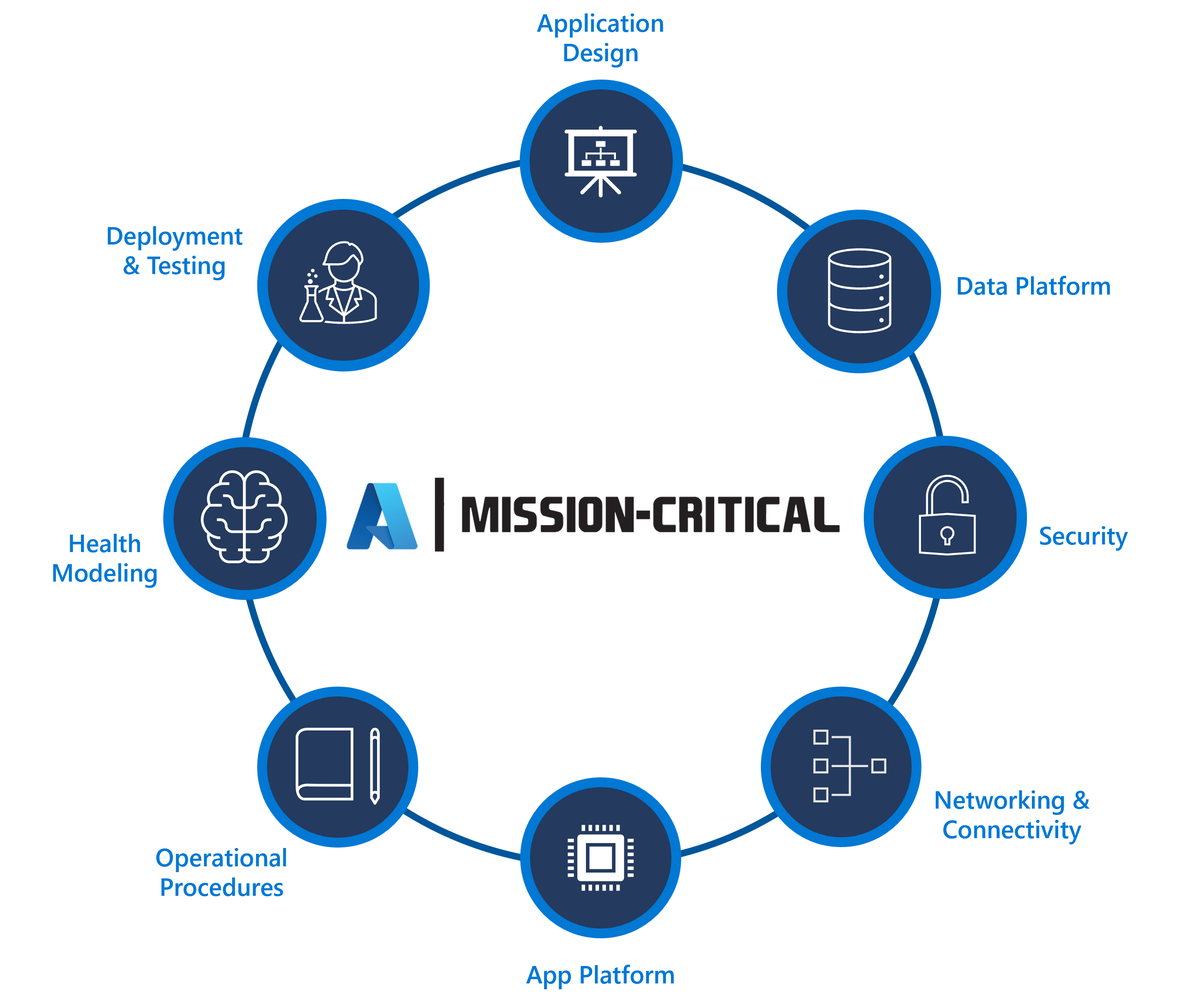
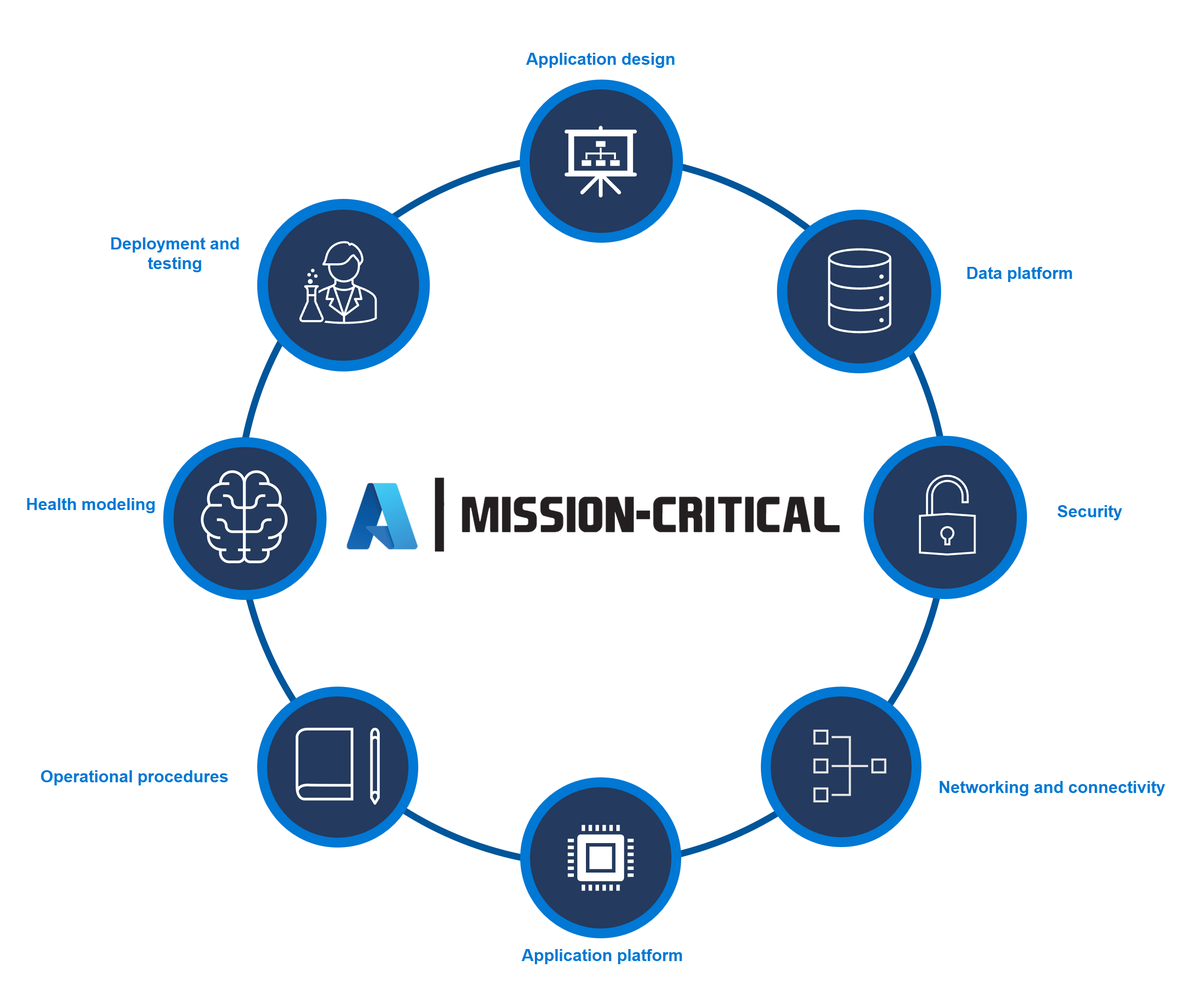
merges

diff --git a/well-architected/mission-critical/mission-critical-architecture-pattern.md b/well-architected/mission-critical/mission-critical-architecture-pattern.md
@@ -24,7 +24,7 @@ ms.custom:
 This section provides design considerations and recommendations across architecturally significant topics that are relevant for a mission-critical workload. The design areas are interrelated and decisions made within one area can impact or influence decisions across the entire design.
 
 > [!IMPORTANT]
-> This article is part of the [Azure Well-Architected mission-critical workload](index.yml) series. If you are not familiar with this series, we recommend you start with [What is a mission-critical workload?](mission-critical-overview.md#what-is-a-mission-critical-workload)
+> This article is part of the [Azure Well-Architected mission-critical workload](index.yml) series. If you aren't familiar with this series, we recommend you start with [What is a mission-critical workload?](mission-critical-overview.md#what-is-a-mission-critical-workload)
 >
 > ![GitHub logo](./../_images/github.svg) [Mission-Critical open source project](http://github.com/azure/alwayson)
 >
@@ -48,24 +48,11 @@ We recommend that you use the provided design guidance to navigate the key desig
 
 A mission-critical workload architecture is defined by the various design decisions required to ensure both functional and non-functional business-requirements are fully satisfied. The target architecture is therefore greatly influenced by the relevant business requirements, and as a result may vary between different application contexts.
 
-<<<<<<< HEAD
-
-The image below represents a reference architecture recommended for mission-critical workloads on Azure. It leverages a reference set of business requirements to achieve an optimized architecture for different target reliability tiers.
-
-![Mission-critical online reference architecture](./images/alwayson-architecture-foundational-online.png "Mission-critical online reference architecture")
-
-<<<<<<< Updated upstream
->The [Mission-Critical Foundational Online](https://github.com/azure/alwayson-foundational-online) and [Mission-Critical Foundational Connected](https://github.com/azure/alwayson-foundational-connected) provide solution orientated showcases for this design methodology, demonstrating how this architecture pattern can be implemented alongside the operational wrappers required to maximize reliability and operational effectiveness.
-=======
-The [Mission-Critical Online](https://github.com/azure/alwayson-foundational-online) and [Mission-Critical Connected](https://github.com/azure/alwayson-foundational-connected) provide solution orientated showcases for this design methodology, demonstrating how this architecture pattern can be implemented alongside the operational wrappers required to maximize reliability and operational effectiveness.
->>>>>>> Stashed changes
-=======
 The image below represents a reference architecture recommended for mission-critical workloads on Azure. It leverages a reference set of business requirements to achieve an optimized architecture for different target reliability tiers.
 
 ![Mission-critical online reference architecture](./images/mission-critical-architecture-foundational-online.png "Mission-critical online reference architecture")
 
->The [Mission-Critical Online](https://github.com/azure/alwayson-foundational-online) and [Mission-Critical Connected](https://github.com/azure/alwayson-foundational-connected) provide solution orientated showcases for this design methodology, demonstrating how this architecture pattern can be implemented alongside the operational wrappers required to maximize reliability and operational effectiveness.
->>>>>>> 873613c72bd1ff73668a8fd7f24887badd014e48
+The [Mission-Critical Foundational Online](https://github.com/azure/alwayson-foundational-online) and [Mission-Critical Foundational Connected](https://github.com/azure/alwayson-foundational-connected) provide solution orientated showcases for this design methodology, demonstrating how this architecture pattern can be implemented alongside the operational wrappers required to maximize reliability and operational effectiveness.
 
 Use these reference implementations to construct a sandbox application environment for validating key design decisions.
 
@@ -77,33 +64,24 @@ This mission-critical workload series provides prescriptive architectural guidan
 
 The mission-critical [reference implementations](mission-critical-overview.md#illustrative-examples) can integrate seamlessly within an Azure landing zone, and is deployable within both the *Online* or *Corp. Connected* Landing Zone formats as demonstrated within the image below.
 
-<<<<<<< HEAD
-![Mission-critical workload and Landing Zone integration](./images/alwayson-landing-zones.gif "Mission-critical workload and Landing Zone integration")
-
-It is crucial to understand and identify in which connectivity scenario a mission-critical application requires since Azure landing zones support different landing zones archetypes separated into different Management Group scopes.
-=======
-![Mission-critical workload and Landing Zone integration](./images/mission-critical-landing-zones.gif "Mission-critical workload and Landing Zone integration")
+![Mission-critical workload and landing zone integration](./images/mission-critical-landing-zones.gif "Mission-critical workload and landing zone integration")
 
 It is crucial to understand and identify in which connectivity scenario a mission-critical application requires since Azure landing zones support different workload agnostic landing zones archetypes separated into different Management Group scopes.
->>>>>>> 873613c72bd1ff73668a8fd7f24887badd014e48
 
-- In the context of an *Online* Landing Zone archetype, a mission-critical workload operates as a completely independent solution, without any direct corporate network connectivity to the rest of the Azure landing zone architecture. The application will, however, be further safeguarded through the [*policy-driven management*](/azure/cloud-adoption-framework/ready/enterprise-scale/dine-guidance) approach which is foundational to Azure landing zones, and will automatically integrate with centralized platform logging through policy.
+> The mission-critical reference implementations are fully aligned with the Azure landing zones architectural approach and are immediately deployable within an *Online* or *Connected* Landing Zone subscription.
 
-  - A *Online* deployment can only really consider a public application deployment since there is no private corporate connectivity provided.
+- In the context of an *Online* landing zone archetype, a mission-critical workload operates as a completely independent solution, without any direct corporate network connectivity to the rest of the Azure landing zone architecture. The application will, however, be further safeguarded through the [*policy-driven management*](/azure/cloud-adoption-framework/ready/enterprise-scale/dine-guidance) approach which is foundational to Azure landing zones, and will automatically integrate with centralized platform logging through policy.
+
+  An *Online* deployment can only really consider a public application deployment since there is no private corporate connectivity provided.
 
 - When deployed in a *Corp. Connected* Landing Zone context, the mission-critical workload takes a dependency on the Azure landing zone to provide connectivity resources which allow for integration with other applications and shared services. This necessitates some transformation on-top of the *Online* integration approach, because some foundational resources are expected to exist up-front as part of the shared-service platform. More specifically, the regional deployment stamp should not longer encompass an ephemeral Virtual Network or Azure Private DNS Zone since these will exist within the Azure landing zones *connectivity* subscription. 
 
   A *Corp. Connected* deployment can consider both a public or private application deployment.
-
-> The mission-critical reference implementations are fully aligned with the Azure landing zones architectural approach and are immediately deployable within an *Online* or *Connected* Landing Zone subscription.
 
 ## Next step
 
 Review the best practices for architecting mission-critical application scenarios.
 
 > [!div class="nextstepaction"]
-<<<<<<< HEAD
-> [Application Design](./mission-critical-application-design.md)
-=======
 > [Application design](./mission-critical-application-design.md)
->>>>>>> 873613c72bd1ff73668a8fd7f24887badd014e48
+

diff --git a/well-architected/mission-critical/mission-critical-application-design.md b/well-architected/mission-critical/mission-critical-application-design.md
@@ -69,10 +69,6 @@ The expected growth patterns for both traffic and data volume inform the design,
 
 The required performance of the solution under load is a critical decision factor when modeling required capacity.
 
-<<<<<<< HEAD
-
-=======
->>>>>>> 873613c72bd1ff73668a8fd7f24887badd014e48
 ### Design recommendations
 
 - Define a scale-unit when the scale-limits of a single deployment are likely to be exceeded.
@@ -107,11 +103,11 @@ The required performance of the solution under load is a critical decision facto
 
 - Measure the time it takes to perform scale-out and scale-in operations, in order to ensure that the natural variations in traffic don't create an unacceptable level of service degradation.   - To drive continuous improvement, track the scale operation durations as an operational metric.
 
-### Example for subscription scale-unit approach
+### Example - Subscription scale-unit approach
 
 This image demonstrates how the single subscription reference deployment model can be expanded across multiple subscriptions, in an extreme scale scenario, to navigate subscription scale-limits.
 
-![Mission-Critical Subscription Scale Units](./images/alwayson-subscription-scale.gif "Mission-Critical Subscription Scale Units")
+![Mission-Critical Subscription Scale Units](./images/mission-critical-subscription-scale.gif "Mission-Critical Subscription Scale Units")
 
 ## Global distribution
 
@@ -131,7 +127,7 @@ It's important to note that some Azure services are deployable or configurable a
 
 This image shows the high-level active-active design. A user accesses the application through a central global entry point that then redirects requests to a suitable regional deployment stamp.
 
-![Mission-Critical Foundational-Online Architecture](./images/alwayson-high-level-architecture.png)
+![Mission-Critical Foundational-Online Architecture](./images/mission-critical-high-level-architecture.png)
 
 
 ### Design considerations
@@ -144,7 +140,7 @@ This image shows the high-level active-active design. A user accesses the applic
 
 - Like any cloud provider, Azure ultimately has a finite amount of resources and as a result there are situations that can lead to the unavailability of capacity in individual regions. In the event of a regional outage there will be a significant increase in demand for resources within the paired region as impacted customer workloads seek to recover within the paired region. In certain scenarios this may create a capacity challenge where supply temporarily does not satisfy demand.
 
-When designing a globally distributed architecture, start by asking these questions.
+When designing a globally distributed architecture, start with these questions.
 
 **Are there specific regions where data must reside or where resources have to be deployed?**
 
@@ -199,11 +195,11 @@ The connectivity method by which users or systems access the application, whethe
 
 - Use Availability Zones where possible to maximize availability within a single Azure region.
 
-### Example for global distribution approach
+### Example - Global distribution approach
 
 The Mission-Critical reference implementations consist of both global and regional resources, with regional resources deployed across multiple regions to provide geo-availability, in the case of regional outages and to bring services closer to end-users. These regional deployments also serve as scale-unit "stamps" to provide additional capacity and availability when required.
 
-![Mission-Critical Global Distribution](./images/alwayson-global-distribution.gif "Mission-Critical Global Distribution")
+![Mission-Critical Global Distribution](./images/mission-critical-global-distribution.gif "Mission-Critical Global Distribution")
 
 ## Loosely coupled event-driven architecture
 
@@ -254,7 +250,7 @@ In reality, applications can combine loose and tight-coupling, depending on busi
 
 - Given the strong recommendation ([Network and connectivity](./mission-critical-networking-connectivity.md) design area) to use Azure Front Door for global routing and Web Application Firewall (WAF) purposes, it's recommended to prioritize the use of Azure Front Door caching capabilities unless gaps exist.
 
-### Example for event-driven approach
+### Example - Event-driven approach
 
 The [Mission-Critical Online](https://github.com/azure/alwayson-foundational-online) reference implementation uses microservices to process a single business transaction. It applies write operations asynchronously with a message broker and worker, while read operations are synchronous with the result directly returned to the caller.
 

diff --git a/well-architected/mission-critical/mission-critical-health-modeling.md b/well-architected/mission-critical/mission-critical-health-modeling.md
@@ -97,7 +97,7 @@ This is a simplified representation of a layered application health model for il
 When implementing a health model it's important to define the health of individual components through the aggregation and interpretation of key resource-level metrics. An example of how resource metrics can be used is the image below:
 
 <<<<<<< HEAD
-![Mission Critical Example Health Definitions](./images/alwayson-example-health-definitions.png "Mission Critical Example Health Definitions")
+![Mission Critical Example Health Definitions](./images/mission-critical-example-health-definitions.png "Mission Critical Example Health Definitions")
 =======
 ![Mission Critical Example Health Definitions](./images/mission-critical-example-health-definitions.png "Mission Critical Example Health Definitions")
 >>>>>>> 873613c72bd1ff73668a8fd7f24887badd014e48
@@ -147,7 +147,7 @@ These aggregated scores can subsequently be represented as a dependency chart us
 This image shows an example layered health model from the [foundational-online](https://github.com/azure/alwayson-foundational-online) reference implementation, and demonstrates how a change in health state for a foundational component can have a cascading impact to user flows and overall application health (the example values correspond to the table in the previous image).
 
 <<<<<<< HEAD
-![Mission Critical Example Health Model Visualization](./images/alwayson-example-fault-states.png "Mission Critical Example Health Model Visualization")
+![Mission Critical Example Health Model Visualization](./images/mission-critical-example-fault-states.png "Mission Critical Example Health Model Visualization")
 =======
 ![Mission Critical Example Health Model Visualization](./images/mission-critical-example-fault-states.png "Mission Critical Example Health Model Visualization")
 >>>>>>> 873613c72bd1ff73668a8fd7f24887badd014e48
@@ -159,7 +159,7 @@ Many operational datasets must be gathered from all system components to accurat
 A unified data sink is required to ensure all operational data is swiftly stored and made available for correlated analysis to build a 'single pane' representation of application health. Azure provides several different operational technologies under the umbrella of [Azure Monitor](/azure/azure-monitor/overview#overview), and Azure Monitor Log Analytics serves as the core Azure-native data sink to store and analyze operational data.
 
 <<<<<<< HEAD
-![Mission Critical Health Data Collection](./images/alwayson-health-data-collection.png "Mission Critical Health Data Collection")
+![Mission Critical Health Data Collection](./images/mission-critical-health-data-collection.png "Mission Critical Health Data Collection")
 =======
 ![Mission Critical Health Data Collection](./images/mission-critical-health-data-collection.png "Mission Critical Health Data Collection")
 >>>>>>> 873613c72bd1ff73668a8fd7f24887badd014e48
@@ -394,7 +394,7 @@ Machine learning models can be applied to correlate and prioritize operational d
 More specifically, an AIOps methodology can be applied to critical insights about the behavior of the system, users, and DevOps processes. These insights can include identifying a problem happening now (*detect*), quantifying why the problem is happening (*diagnose*), or signaling what will happen in the future (*predict*). Such insights can be used to drive actions that adjust and optimize the application to mitigate active or potential issues, using key business metrics, system quality metrics, and DevOps productivity metrics, to prioritize according to business impact. Conducted actions can themselves be infused into the system through a feedback loop that further trains the underlying model to drive additional efficiencies.
 
 <<<<<<< HEAD
-![Mission Critical AIOps Methodologies](./images/alwayson-aiops-methodology.png "Mission Critical AIOps Methodologies")
+![Mission Critical AIOps Methodologies](./images/mission-critical-aiops-methodology.png "Mission Critical AIOps Methodologies")
 =======
 ![Mission-critical AIOps methodologies](./images/mission-critical-aiops-methodology.png "Mission-critical AIOps methodologies")
 >>>>>>> 873613c72bd1ff73668a8fd7f24887badd014e48

diff --git a/well-architected/mission-critical/mission-critical-overview.md b/well-architected/mission-critical/mission-critical-overview.md
@@ -52,7 +52,7 @@ Mission-critical guidance within this series is composed of architectural consid
 
 ![Mission-critical design areas](./images/mission-critical-design-areas.png "Mission-critical design areas")
 
-> The design areas are interrelated and decisions made within one area can impact or influence decisions across the entire design. The focus is ultimately on building a highly reliable application.
+The design areas are interrelated and decisions made within one area can impact or influence decisions across the entire design. The focus is ultimately on building a highly reliable application.
 
 - **Application design**&mdash;Cloud application design patterns that allow for scaling, and error handling. 
 - **Application platform**&mdash;Hosting environment choices, application dependencies, frameworks, and libraries.
@@ -63,7 +63,7 @@ Mission-critical guidance within this series is composed of architectural consid
 - **Security**&mdash;Mitigation of attack vectors through Microsoft Zero Trust model.
 - **Operational procedures**&mdash; Processes related to deployment, key management, patching and updates.
 
-Readers are advised to familiarize themselves with these design areas, reviewing provided considerations and recommendations to better understand the consequences of encompassed decisions. For example, to define a target architecture it's critical to determine how best to monitor application health across key components. In this instance, the reader should review the health modeling design area, using the outlined recommendations to help drive decisions.
+We recommend that readers familiarize themselves with these design areas, reviewing provided considerations and recommendations to better understand the consequences of encompassed decisions. For example, to define a target architecture it's critical to determine how best to monitor application health across key components. In this instance, the reader should review the **health modeling** design area, using the outlined recommendations to help drive decisions.
 
 ## Illustrative examples
 
@@ -72,11 +72,11 @@ The guidance provided within this series is based on a solution-orientated appro
 > [!IMPORTANT]
 > ![GitHub logo](./../_images/github.svg) [Mission-Critical open source project](http://github.com/azure/alwayson).
 
-- [Mission-Critical Online](https://github.com/azure/alwayson-foundational-online)
+- [Mission-Critical Foundational Online](https://github.com/azure/alwayson-foundational-online)
 
   Provides a foundation for building a cloud-native, highly scalable, internet-facing application on Microsoft Azure.
   
-  The workload is accessed over a public endpoint and doesn't require private network connectivity to a surrounding organizational technical estate.
+  _The workload is accessed over a public endpoint and doesn't require private network connectivity to a surrounding organizational technical estate._
 
 - [Mission-Critical Foundational Connected](https://github.com/azure/alwayson-foundational-connected) 
 

diff --git a/well-architected/mission-critical/mission-critical-design-methodology.md b/well-architected/mission-critical/mission-critical-design-methodology.md
@@ -76,7 +76,7 @@ There are two foundational [reference implementations](mission-critical-overview
 
 ## 3&mdash;Evaluate the design areas using the design principles
 
-At the core of this methodology lies a critical design path comprised of foundational [design principles](mission-critical-design-principles.md) and fundamental [design area](mission-critical-architecture-pattern.md) with heavily interrelated and dependent design decisions.
+At the core of this methodology lies a critical design path comprised of foundational **[design principles](mission-critical-design-principles.md)** and fundamental **[design area](mission-critical-architecture-pattern.md)** with heavily interrelated and dependent design decisions.
 
 The impact of decisions made within each design area will reverberate across other design areas and design decisions. Review the provided considerations and recommendations to better understand the consequences of encompassed decisions, which may produce trade-offs within related design areas. 
 
@@ -84,7 +84,7 @@ For example, to define a target architecture it's critical to determine how best
 
 ## 4&mdash;Deploy a sandbox application environment
 
-In parallel to design activities, it's highly recommended that a sandbox application environment be established using the Azure Mission-Critical reference implementations.
+In parallel to design activities, it's highly recommended that a sandbox application environment be established using the Mission-Critical reference implementations.
 
 This provides hands-on opportunities to validate design decisions by replicating the target architecture, allowing for design uncertainty to be swiftly assessed. If applied correctly with representative requirement coverage, most problematic issues likely to hinder progress can be uncovered and subsequently addressed.
 

diff --git a/well-architected/mission-critical/mission-critical-deployment-testing.md b/well-architected/mission-critical/mission-critical-deployment-testing.md
@@ -100,7 +100,7 @@ This section explores the key considerations and recommendations for application
     - The [Mission Critical Foundational Online](https://github.com/Azure/AlwaysOn-Foundational-Online) reference implementation provides an example [user load generator](https://github.com/Azure/AlwaysOn-Foundational-Online/src/testing/userload-generator/README.md).
 
 <<<<<<< HEAD
-![Mission Critical Azure Subscription Organization](./images/alwayson-subscription-organization.png)
+![Mission Critical Azure Subscription Organization](./images/mission-critical-subscription-organization.png)
 =======
 ![Mission Critical Azure Subscription Organization](./images/mission-critical-subscription-organization.png "Mission Critical Azure Subscription Organization")
 >>>>>>> 873613c72bd1ff73668a8fd7f24887badd014e48
@@ -167,7 +167,7 @@ Achieving zero-downtime deployments is a fundamental goal of a mission-critical 
 The [Mission-Critical Foundational Online](https://github.com/Azure/AlwaysOn-Foundational-Online) and [Azure Mission-Critical Foundational Connected](https://github.com/Azure/AlwaysOn-Foundational-Connected) reference implementations serve as practical examples for these concepts and recommendations, to establish an optimized zero-downtime deployment approach as represented in the illustration below.
 
 <<<<<<< HEAD
-![Zero-Downtime DevOps Pipeline Reference](./images/alwayson-zero-downtime-pipeline.png "[Zero-Downtime DevOps Pipeline Reference")
+![Zero-Downtime DevOps Pipeline Reference](./images/mission-critical-zero-downtime-pipeline.png "[Zero-Downtime DevOps Pipeline Reference")
 =======
 ![Zero-Downtime DevOps Pipeline Reference](./images/mission-critical-zero-downtime-pipeline.png "[Zero-Downtime DevOps Pipeline Reference")
 >>>>>>> 873613c72bd1ff73668a8fd7f24887badd014e48

diff --git a/well-architected/mission-critical/mission-critical-design-principles.md b/well-architected/mission-critical/mission-critical-design-principles.md
@@ -39,10 +39,6 @@ These mission-critical design principles resonate and extend the quality pillars
 |[**Drive automation**](/azure/architecture/framework/resiliency/principles#drive-automation)|One of the leading causes of application downtime is human error, whether that is due to the deployment of insufficiently tested software or misconfiguration. To minimize the possibility and impact of human errors, it's vital to strive for automation in all aspects of a cloud solution to improve reliability; automated testing, deployment, and management.|
 |[**Design for self-healing**](/azure/architecture/framework/resiliency/principles#design-for-self-healing)|Self healing describes a system's ability to deal with failures automatically through pre-defined remediation protocols connected to failure modes within the solution. It's an advanced concept that requires a high level of system maturity with monitoring and automation, but should be an aspiration from inception to maximize reliability.|
 
-<<<<<<< HEAD
-
-=======
->>>>>>> 873613c72bd1ff73668a8fd7f24887badd014e48
 ## Performance Efficiency
 
 **_Sustainable performance and scalability_** - Design for scalability across the end-to-end solution without performance bottlenecks.

diff --git a/well-architected/mission-critical/mission-critical-cross-cutting-issues.md b/well-architected/mission-critical/mission-critical-cross-cutting-issues.md
@@ -20,7 +20,7 @@ ms.custom:
 There are several cross-cutting concerns that traverse the [key design areas](mission-critical-overview.md#what-are-the-key-design-areas). This article contextualizes these cross-cutting concerns for subsequent consideration within each design area.
 
 > [!IMPORTANT]
-> This article is part of the [Azure Well-Architected mission-critical workload](index.yml) series. If you are not familiar with this series, we recommend you start with [what is a mission-critical workload?](mission-critical-overview.md#what-is-a-mission-critical-workload)
+> This article is part of the [Azure Well-Architected mission-critical workload](index.yml) series. If you aren't familiar with this series, we recommend you start with [what is a mission-critical workload?](mission-critical-overview.md#what-is-a-mission-critical-workload)
 >
 > ![GitHub logo](./../_images/github.svg) [Mission-Critical open source project](http://github.com/azure/alwayson)
 >

diff --git a/well-architected/mission-critical/mission-critical-networking-connectivity.md b/well-architected/mission-critical/mission-critical-networking-connectivity.md
@@ -130,7 +130,7 @@ This section explores the key differences Azure routing services to define how e
 
 This image shows a redundant global load balancer configuration with client failover using Azure Front Door as primary global load balancer.
 
-![Mission-Critical Global Load Balancer Configuration](./images/alwayson-global-routing.gif "Mission-Critical Global Load Balancer Configuration")
+![Mission-Critical Global Load Balancer Configuration](./images/mission-critical-global-routing.gif "Mission-Critical Global Load Balancer Configuration")
 
 >[!IMPORTANT]
 > To truly mitigate the risk of global failures within the Azure platform, a multi-cloud active-active deployment approach should be considered, with active deployment stamps hosted across two or more cloud providers and redundant third-party routing technologies used for global routing.
